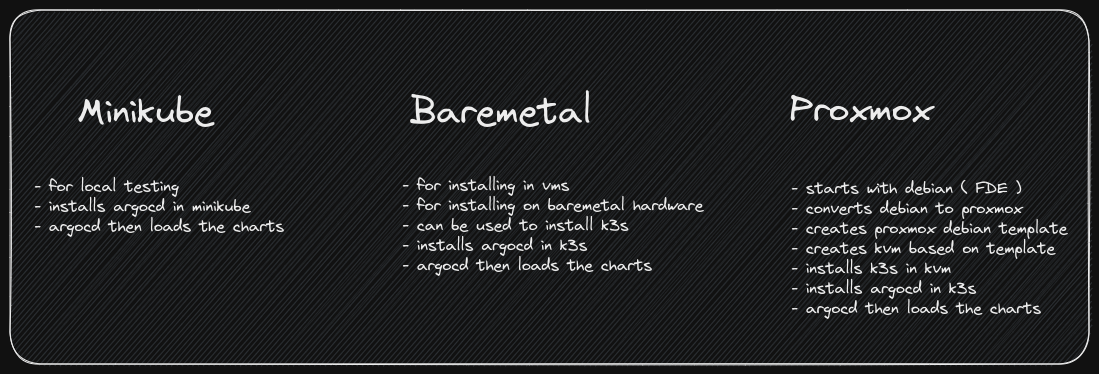
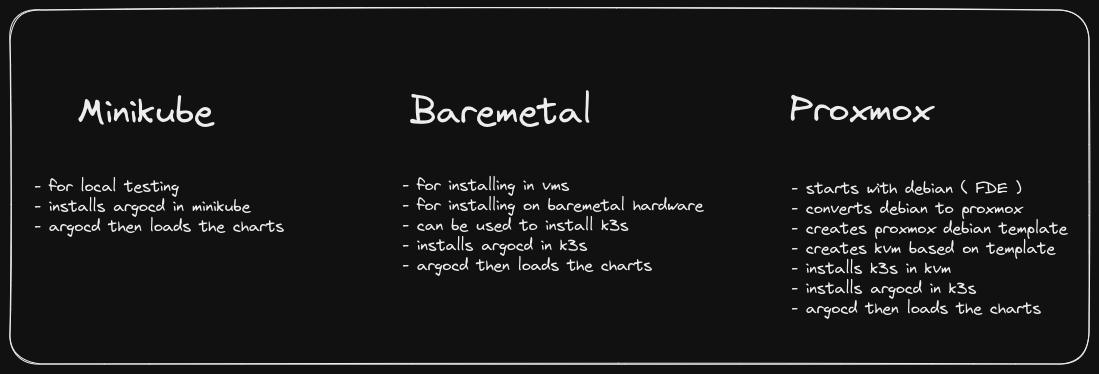
updated docs

diff --git a/docs/Excalidraw/three-choices.md b/docs/Excalidraw/three-choices.md
@@ -178,8 +178,8 @@ Minikube ^E6HB5i2B
 		},
 		{
 			"type": "text",
-			"version": 103,
-			"versionNonce": 1998727384,
+			"version": 105,
+			"versionNonce": 1581895896,
 			"isDeleted": false,
 			"id": "6wgqIgoU",
 			"fillStyle": "hachure",
@@ -198,7 +198,7 @@ Minikube ^E6HB5i2B
 			"groupIds": [],
 			"roundness": null,
 			"boundElements": [],
-			"updated": 1682547029133,
+			"updated": 1682547329726,
 			"link": null,
 			"locked": false,
 			"fontSize": 16,
